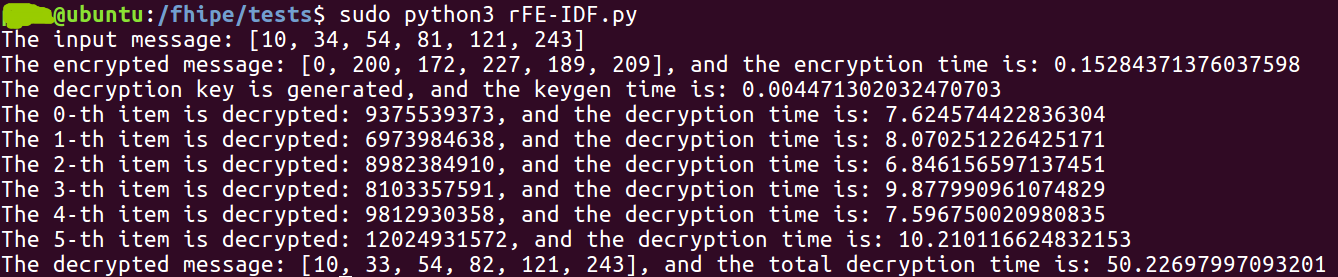
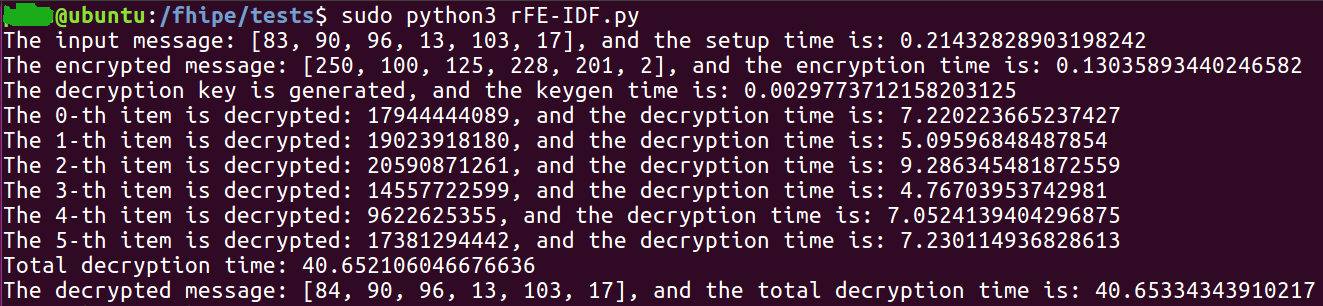
Add files via upload

diff --git a/rFE-IDF.py b/rFE-IDF.py
@@ -7,11 +7,12 @@ from fhipe import ipe
 from numpy import random
 
 n = 10 # the dimension of vector H(r) and k
+ell = 6 # the message length
 
 q = 65537 # the value of parameter q
 p = 257 # the value of parameter p
 
-m = [10,34,54,81,121,243] # the input message
+m = [random.randint(0, 255) for i in range(ell)] # the input message
 
 def hash(r):
 	"""
@@ -103,22 +104,27 @@ def decrypt(pp, ct, sk):
 	(c, h, r) = ct
 	(k1, g) = sk
 	m_prime = []
+	total = 0
 	for i in range(len(m)):
 		dec_a = time.time()
 		prod = ipe.decrypt_new(pp, g, h[i], q*q*n) # invoke FPL-FE decryption algorithm
 		dec_b = time.time()
 		KHPRF2 = round((float(p)/float(q))*(prod % q)) # rounding the decrypted result to domain Z_p
 		m_prime.append((c[i] - KHPRF(k1,r[i]) - KHPRF2) % p)
+		total = total + (dec_b-dec_a)
 		print("The " + str(i) + "-th item is decrypted: " + str(prod) + ", and the decryption time is: " + str(dec_b-dec_a))
+	print("Total decryption time: " + str(total))
 	return m_prime
 	
-	
+
+setup_a = time.time()
 (pp, mk) = setup()
-print("The input message: " + str(m))
+setup_b = time.time()
+print("The input message: " + str(m) + ", and the setup time is: " + str(setup_b-setup_a))
 enc_a = time.time()
 ct = encrypt(pp,mk,m)
-enc_b = time.time()
 (c, h, r) = ct
+enc_b = time.time()
 print("The encrypted message: " + str(c) + ", and the encryption time is: " + str(enc_b-enc_a))
 keygen_a = time.time()
 sk = keygen(mk)
